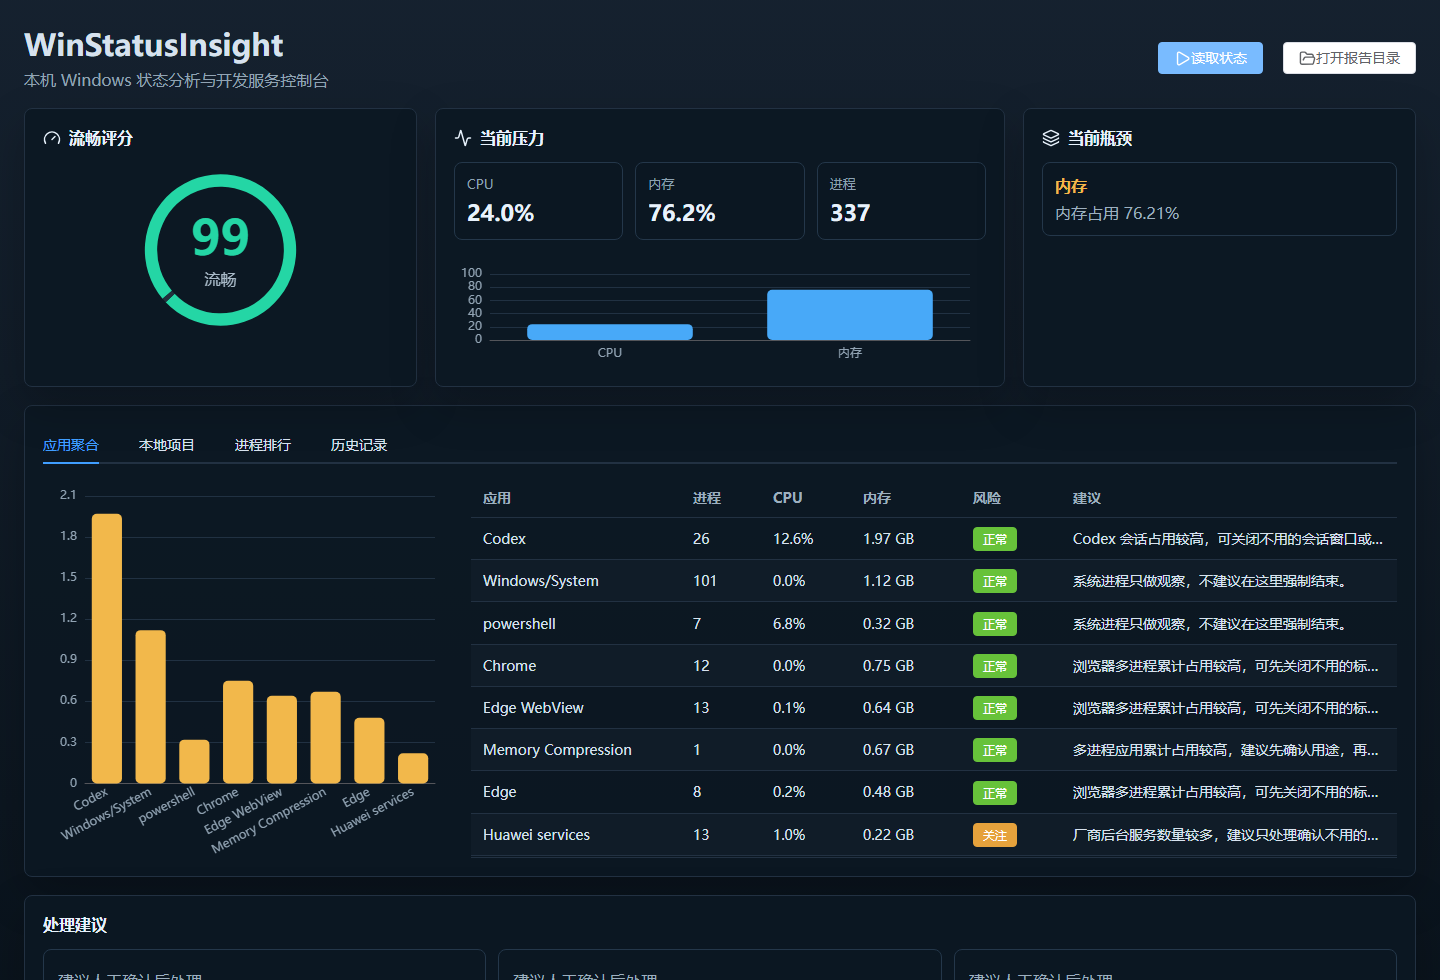
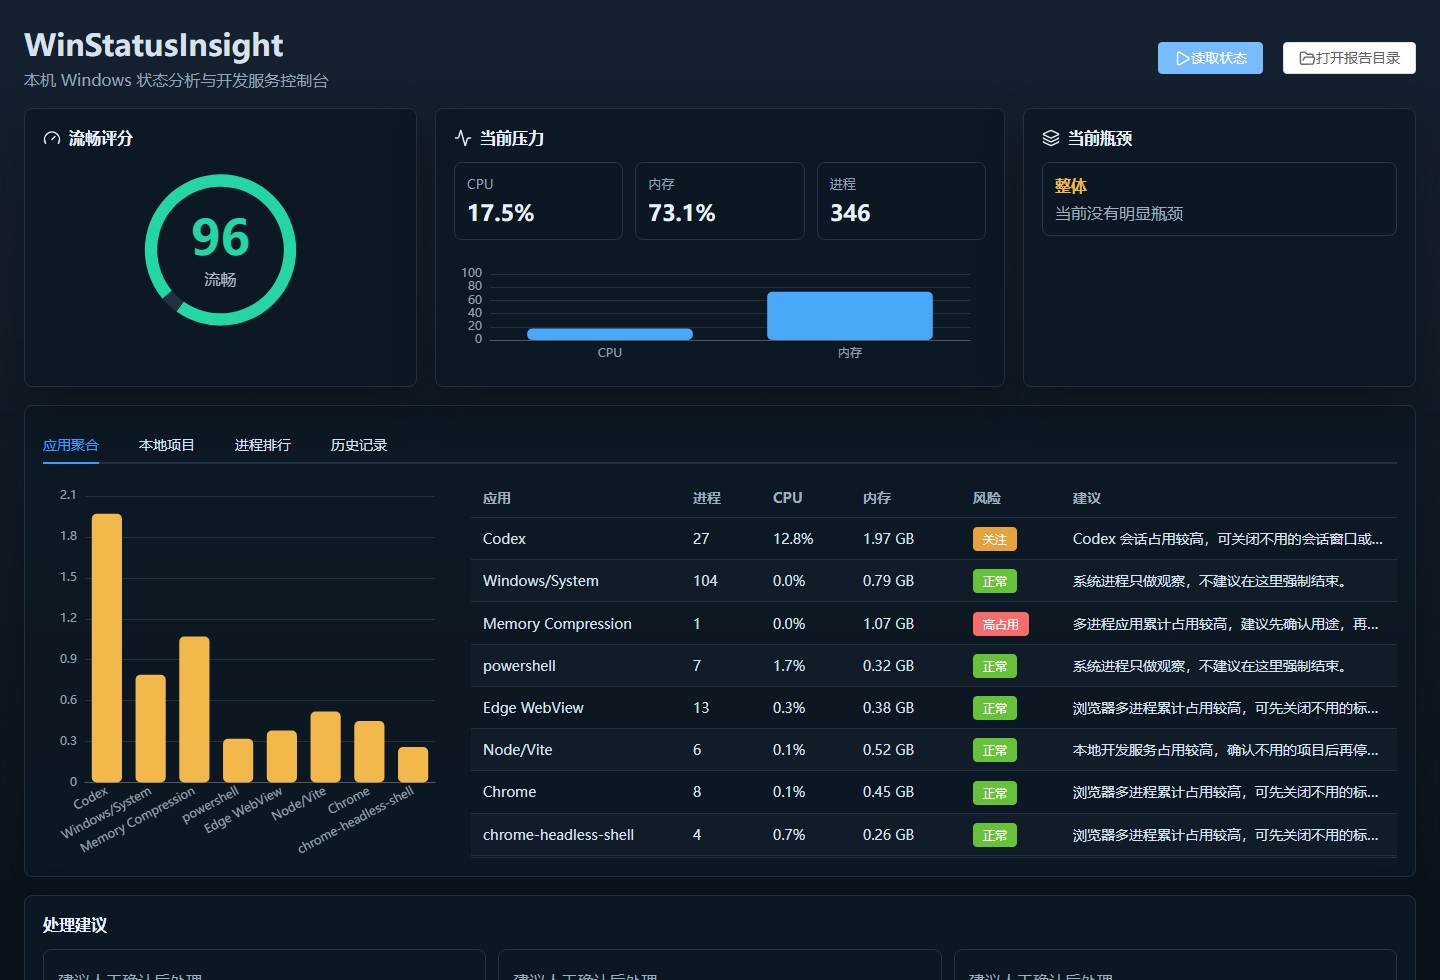
Fix packaged startup and add release screenshots

diff --git a/electron/main.js b/electron/main.js
@@ -26,6 +26,16 @@ async function waitForServer(url, timeoutMs = 12000) {
   throw new Error(`Local server did not respond: ${url}`)
 }
 
+async function waitForServerAddress(server, timeoutMs = 12000) {
+  const startedAt = Date.now()
+  while (Date.now() - startedAt < timeoutMs) {
+    const address = server.address()
+    if (typeof address === 'object' && address?.port) return address
+    await new Promise((resolve) => setTimeout(resolve, 50))
+  }
+  throw new Error('Local server did not expose a listening address')
+}
+
 async function startLocalServer() {
   process.env.PORT = '0'
   process.env.WIN_STATUS_INSIGHT_APP_ROOT = app.getAppPath()
@@ -35,9 +45,8 @@ async function startLocalServer() {
     : path.join(app.getAppPath(), 'scripts', 'collect-status.ps1')
 
   serverModule = await import('../server/index.js')
-  const address = serverModule.server.address()
-  const actualPort = typeof address === 'object' && address ? address.port : 5274
-  return `http://127.0.0.1:${actualPort}`
+  const address = await waitForServerAddress(serverModule.server)
+  return `http://127.0.0.1:${address.port}`
 }
 
 async function createWindow() {

diff --git a/README.md b/README.md
@@ -4,6 +4,11 @@ WinStatusInsight 是一个本地 Windows 状态分析桌面工具，用来快速
 
 ![WinStatusInsight dashboard](docs/assets/win-status-insight-dashboard.png)
 
+## 下载
+
+- [便携版 WinStatusInsight.exe](https://github.com/zgxhh/WinStatusInsight/releases/latest/download/WinStatusInsight.exe)
+- [安装版 WinStatusInsight-Setup-1.0.0.exe](https://github.com/zgxhh/WinStatusInsight/releases/latest/download/WinStatusInsight-Setup-1.0.0.exe)
+
 ## 功能
 
 - 读取 Windows 当前 CPU、内存和进程状态。
@@ -13,6 +18,24 @@ WinStatusInsight 是一个本地 Windows 状态分析桌面工具，用来快速
 - 支持停止可确认的本地项目进程，并保护当前分析面板不被误停。
 - 支持保存历史快照，并做两次读取结果的历史对比。
 - 支持打包为 Windows 便携版和 NSIS 安装版。
+
+## 产品截图
+
+### 应用聚合
+
+![应用聚合](docs/assets/win-status-insight-dashboard.png)
+
+### 本地项目
+
+![本地项目](docs/assets/win-status-insight-local-projects.png)
+
+### 进程排行
+
+![进程排行](docs/assets/win-status-insight-process-ranking.png)
+
+### 历史记录
+
+![历史记录](docs/assets/win-status-insight-history.png)
 
 ## 技术栈
 